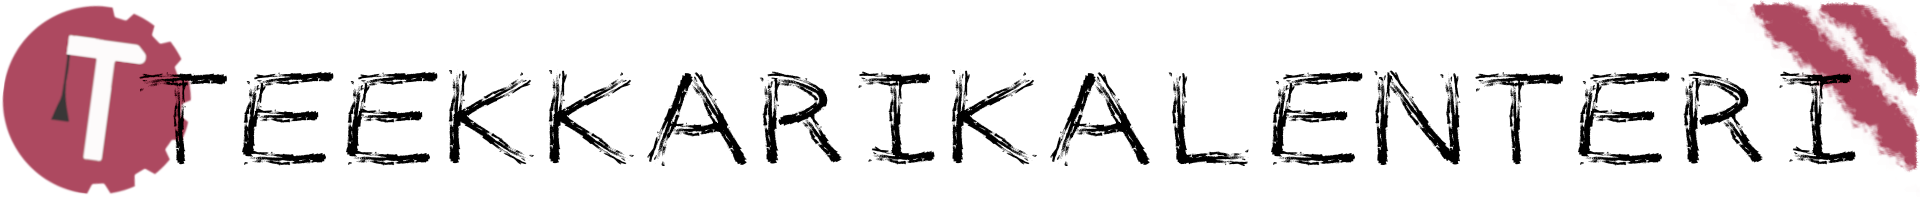
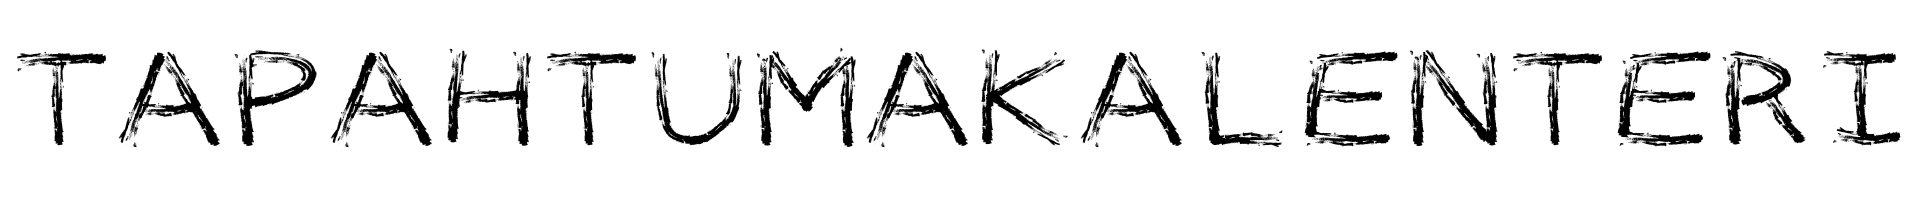
Modified project to portfolio project.

Changed region(s): [[0.0, 0.0, 1.0, 0.96]]

diff --git a/client/src/components/AboutPage.js b/client/src/components/AboutPage.js
@@ -1,9 +1,5 @@
 import React from 'react'
 
-const SUBSCRIBE_URL = 'https://teekkarikalenteri.fi/api/subscribe/teekkarikalenteri.ics'
-const HELP_EMAIL = 'tuki(at)teekkarikalenteri.fi'
-const FEEDBACK_FORMS = 'forms.gle/7g8qLtxNvmJpjZzo8'
-
 const AboutPage = () => (
   <div className='about-box'>
     <h4>
@@ -12,72 +8,7 @@ const AboutPage = () => (
       </b>
     </h4>
     <p>
-      Teekkarikalenteri on Tampereen teekkarien PerinneSeuran toimittama ja
-      Tampereen Teekkarien julkaisema tamperelainen teekkarikalenteri, joka
-      pyrkii tuomaan kaikki Tampereen teekkaritapahtumat yhteen paikkaan.
-    </p>
-    <p>
-      Teekkarikalenteri-käyttäjätili myönnetään kaikille Tampereen Teekkarien
-      jäsenille, jotka ovat siihen oikeutettuja. Käyttäjätilin avulla on
-      mahdollista lisätä, muokata ja poistaa omia tapahtumia. Myös
-      käyttäjätiliin sidottua ulkopuolisille näkyvää profiilia on mahdollisuus
-      muokata nimen, linkin ja teemavärien muodossa.
-    </p>
-
-    <h4>
-      <b>
-        Kalenterin tilaaminen toiseen kalenteriin
-      </b>
-    </h4>
-    <p>
-      Teekkarikalenterin voi tilata toiseen kalenteriin alla olevalla
-      URL-osoitteella:
-      <br />
-      <span className='about-link subscribe-link'>
-        <i>
-          {SUBSCRIBE_URL}
-        </i>
-      </span>
-    </p>
-
-    <h4>
-      <b>
-        Kalenterin käyttäminen mobiilisovelluksena
-      </b>
-    </h4>
-    <p>
-      Teekkarikalenteria voi käyttää myös PWA-mobiilisovelluksen muodossa. Avaa
-      mobiiliselaimen valikko osoitepalkista ja paina &quot;Lisää aloitusnäyttöön&quot;
-      (Chrome/Safari) tai &quot;Asenna&quot; (Firefox).
-    </p>
-
-    <h4>
-      <b>
-        Tuki ja palaute
-      </b>
-    </h4>
-    <p>
-      Mikäli tarvitset Teekkarikalenteriin liittyen, esimerkiksi unohtuneen salasanan tai
-      uuden käyttäjätilin toimesta, voit ottaa yhteyttä seuraavaan sähköpostiin:
-      <br />
-      <span className='about-link subscribe-link'>
-        <i>
-          {HELP_EMAIL}
-        </i>
-      </span>
-    </p>
-    <p>
-      Löysitkö Teekkarikalenterista bugin? Onko sinulla kehitysehdotuksia? Voit
-      ilmoittaa niistä
-      {' '}
-      <a
-        href={`//${FEEDBACK_FORMS}`}
-        target='_blank'
-        rel='noopener noreferrer'
-      >
-        palautelomakkeella
-      </a>
-      .
+      TBD
     </p>
   </div>
 )

diff --git a/client/public/index.html b/client/public/index.html
@@ -19,12 +19,12 @@
       href="https://cdnjs.cloudflare.com/ajax/libs/slick-carousel/1.6.0/slick-theme.min.css"
     />
     <meta charset="utf-8" />
-    <link rel="icon" href="%PUBLIC_URL%/logo.ico" />
+    <link rel="icon" href="%PUBLIC_URL%/favicon.ico" />
     <meta name="viewport" content="width=device-width, initial-scale=1" />
     <meta name="theme-color" content="#000000" />
     <meta
       name="description"
-      content="Tamperelainen teekkarikalenteri"
+      content="A fullstack event calendar PWA."
     />
     <link rel="apple-touch-icon" href="%PUBLIC_URL%/logo192.png" />
     <!--
@@ -41,7 +41,7 @@
       work correctly both with client-side routing and a non-root public URL.
       Learn how to configure a non-root public URL by running `npm run build`.
     -->
-    <title>Teekkarikalenteri</title>
+    <title>Event Calendar Fullstack App</title>
   </head>
   <body>
     <noscript>You need to enable JavaScript to run this app.</noscript>

diff --git a/client/src/components/Footer.js b/client/src/components/Footer.js
@@ -1,17 +1,23 @@
 import React from 'react'
-import { CopyrightIcon } from '../assets/icons'
+import { CopyrightIcon, GitHubIcon } from '../assets/icons'
+
+const GITHUB_LINK = 'https://github.com/iirokiviluoma-projects/event-calendar-fullstack'
 
 const Footer = () => (
   <div className='footer'>
     <div className='footer-item'>
       <CopyrightIcon />
-      Teekkarikalenteri.fi
+      Iiro
     </div>
 
-    <div className='footer-item' style={{ color: '#999999' }}>
-      <i>
-        Toteutus: Iiro Kiviluoma
-      </i>
+    <div className='footer-item'>
+      <a
+        href={GITHUB_LINK}
+        target='_blank'
+        rel='noopener noreferrer'
+      >
+        <GitHubIcon />
+      </a>
     </div>
   </div>
 )

diff --git a/client/src/components/LinksPage.js b/client/src/components/LinksPage.js
@@ -1,8 +1,15 @@
 import React from 'react'
 
 const LinksPage = () => (
-  <div>
-    Linkkejä (TBD)
+  <div className='about-box'>
+    <h4>
+      <b>
+        Linkkejä
+      </b>
+    </h4>
+    <p>
+      TBD
+    </p>
   </div>
 )
 
